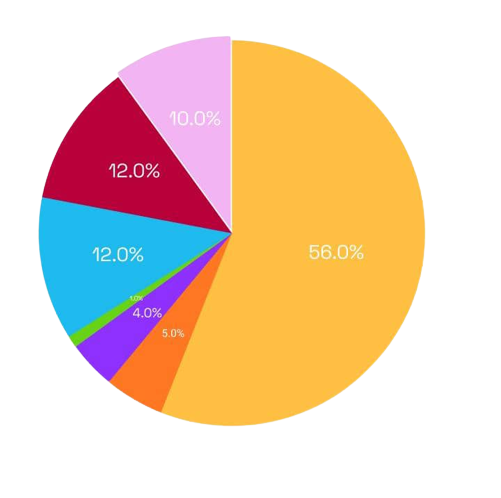
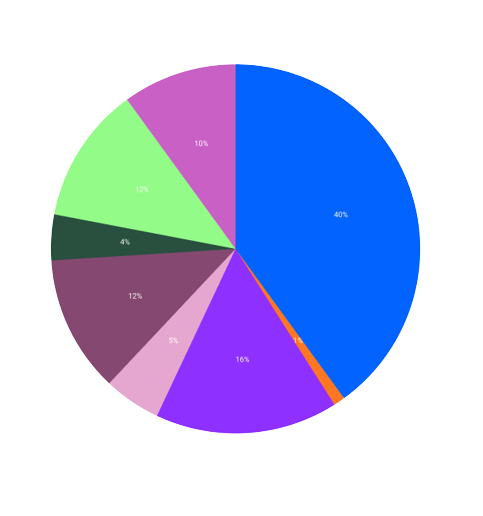
changed tokenomics

diff --git a/public/js/presale.js b/public/js/presale.js
@@ -48,14 +48,14 @@ const getAvailableCoins = () => {
     data.currencies
     .filter(tkn =>  
        tkn.toLowerCase() === "bnbbsc" ||
-       tkn.toLowerCase() === "eth" ||
-       tkn.toLowerCase() === "btc" ||
-       tkn.toLowerCase() === "aave" ||
-       tkn.toLowerCase() === "ltc" ||
+      //  tkn.toLowerCase() === "eth" ||
+      //  tkn.toLowerCase() === "btc" ||
+      //  tkn.toLowerCase() === "aave" ||
+      //  tkn.toLowerCase() === "ltc" ||
        tkn.toLowerCase() === "trx" ||
-       tkn.toLowerCase() === "busd" ||
-       tkn.toLowerCase() === "busdbsc" ||
-       tkn.toLowerCase() === "cake" 
+       tkn.toLowerCase() === "busd"
+      //  tkn.toLowerCase() === "busdbsc" ||
+      //  tkn.toLowerCase() === "cake" 
     ).map(coin => {
 
       const options = document.createElement("option")
@@ -106,7 +106,7 @@ const getAvailableCoins = () => {
     purchaseBtn.innerHTML = "LOADING..."
 
     const newPaymentObject = {
-      price_amount: parseInt(slotAmount.value),
+      price_amount: parseInt(slotAmount.value + 0.3),
       price_currency: "usd",
       pay_currency: coinList.value,
       ipn_callback_url: "https://nowpayments.io",
@@ -174,6 +174,7 @@ const getAvailableCoins = () => {
       payNetwork2.innerHTML = data.network
       payAmount.innerHTML = data.pay_amount
       document.querySelector(".coinAddress").innerHTML = data.pay_address
+      document.querySelector(".usdAmount").innerHTML = slotAmount.value + 0.3
       
       copyTokenAddress.addEventListener('click', () => {
         if (navigator && navigator.clipboard && navigator.clipboard.writeText){

diff --git a/public/styles/main.css b/public/styles/main.css
@@ -551,7 +551,7 @@
   article.exp .tokenomics div.pie .chart {
     width: 100%;
     height: 20rem;
-    background: url(../img/pie.png) no-repeat;
+    background: url(../img/chatie.png) no-repeat;
     background-size: 18rem;
     background-position-x: 6rem;
   }
@@ -1559,7 +1559,7 @@
   article.exp .tokenomics div.pie .chart {
     width: 100%;
     height: 20rem;
-    background: url(../img/pie.png) no-repeat;
+    background: url(../img/chatie.png) no-repeat;
     background-size: 16rem;
     background-position-x: 4rem;
   }
@@ -5989,7 +5989,7 @@ button {
   article.exp .tokenomics div.pie  {
     width: 80%;
     height: 18rem;
-    background: url(../img/pie.png) no-repeat;
+    background: url(../img/chatie.png) no-repeat;
     background-size: 20rem;
     background-position-x: -1.5rem;
    

diff --git a/public/js/dash2.js b/public/js/dash2.js
@@ -10,6 +10,7 @@ const copyId = document.querySelector(".copyBtn")
 const preventReload = e => {
   e.preventDefault()
 }
+
 document.querySelector('form').addEventListener('submit', preventReload)
 
 const copyIdToClipboard = (text, btn) => {
